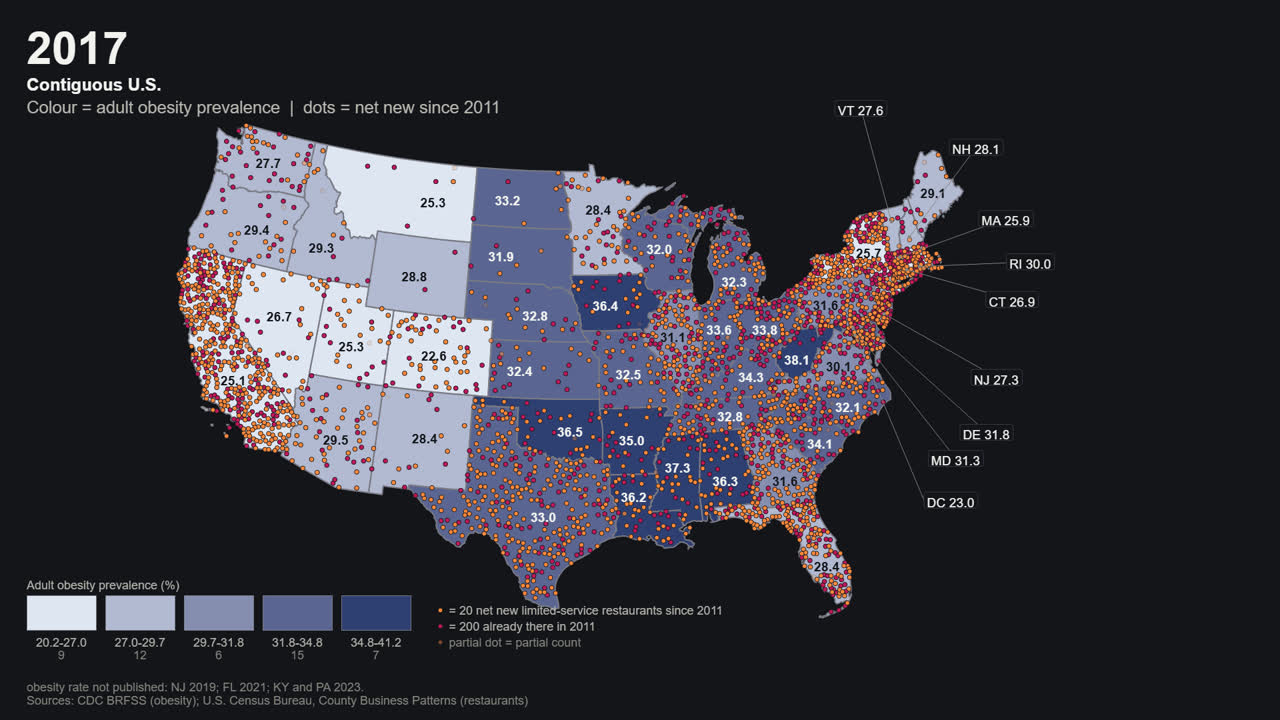
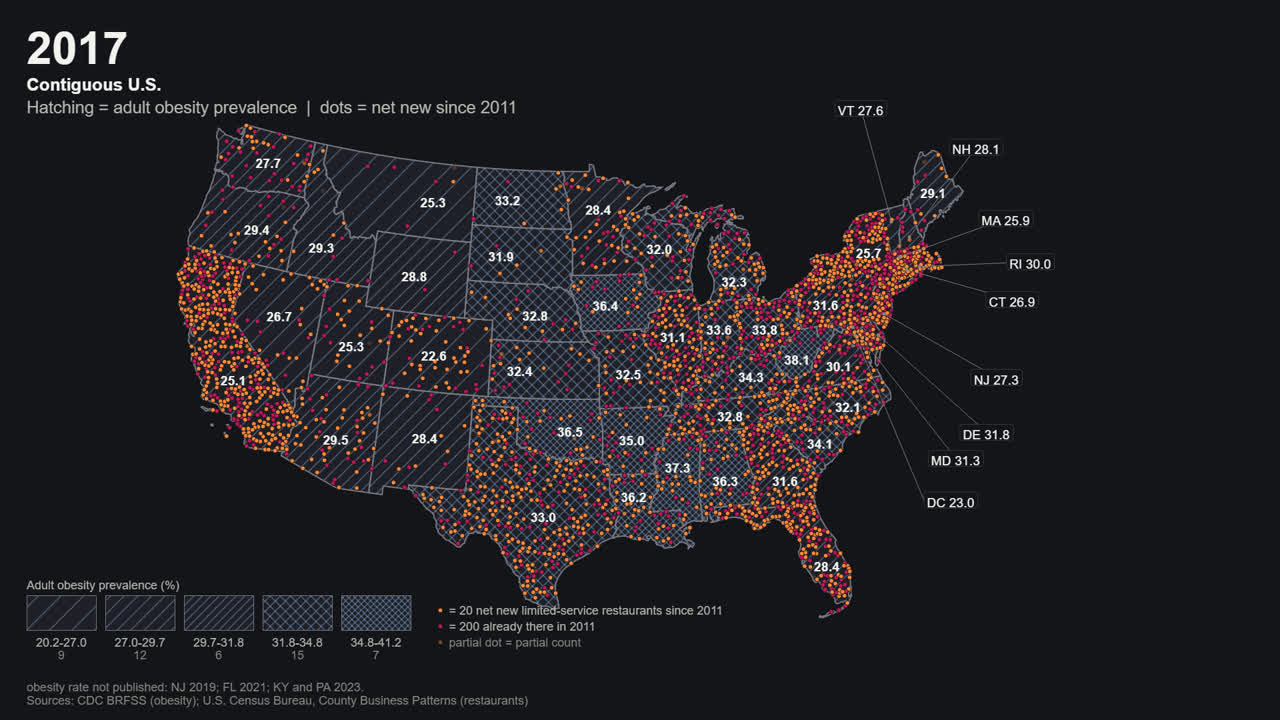
Front door hatched-hero twin: the hatched 2017 frame (WORKER 1-before-hatch-baseline) replaces the shaded still; alt text says hatched

Changed region(s): [[0.0312, 0.1222, 0.75, 0.8556], [0.0, 0.825, 0.3438, 0.8861]]

diff --git a/index.html b/index.html
@@ -31,7 +31,7 @@
       <p class="rg-lead">Ryagram turns public data into short animated films, and checks each one against its data before you get it.</p>
     </div>
     <figure class="rg-hero-film">
-      <img class="rg-hero-still" src="/assets/ryagram-hero-still.jpg" width="1280" height="720" alt="A map of US states shaded by adult obesity, with dots for new restaurants.">
+      <img class="rg-hero-still" src="/assets/ryagram-hero-still.jpg" width="1280" height="720" alt="A map of US states hatched by adult obesity, with dots for new restaurants.">
       <figcaption>A film made with Ryagram.</figcaption>
     </figure>
     <div class="rg-hero-cta"><a class="rg-btn" href="/app/#/create-account"><span>Start free, <span data-welcome-credits>16</span> credits</span></a> <a class="rg-hero-signin" href="/app/">Sign in</a></div>
